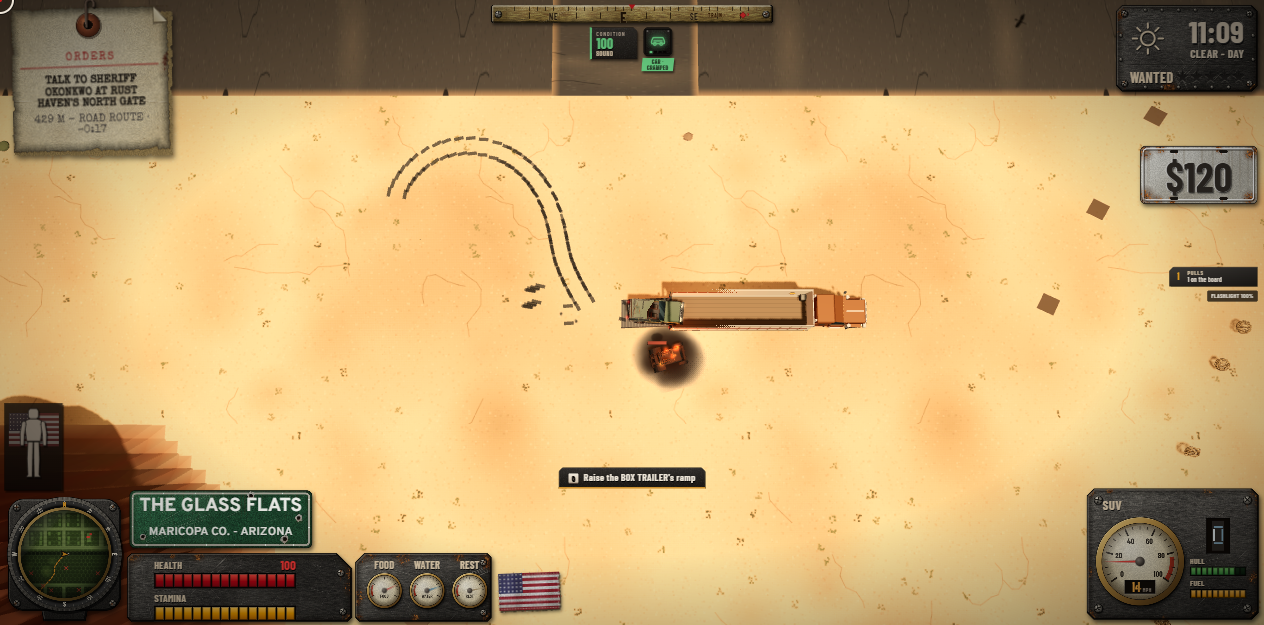
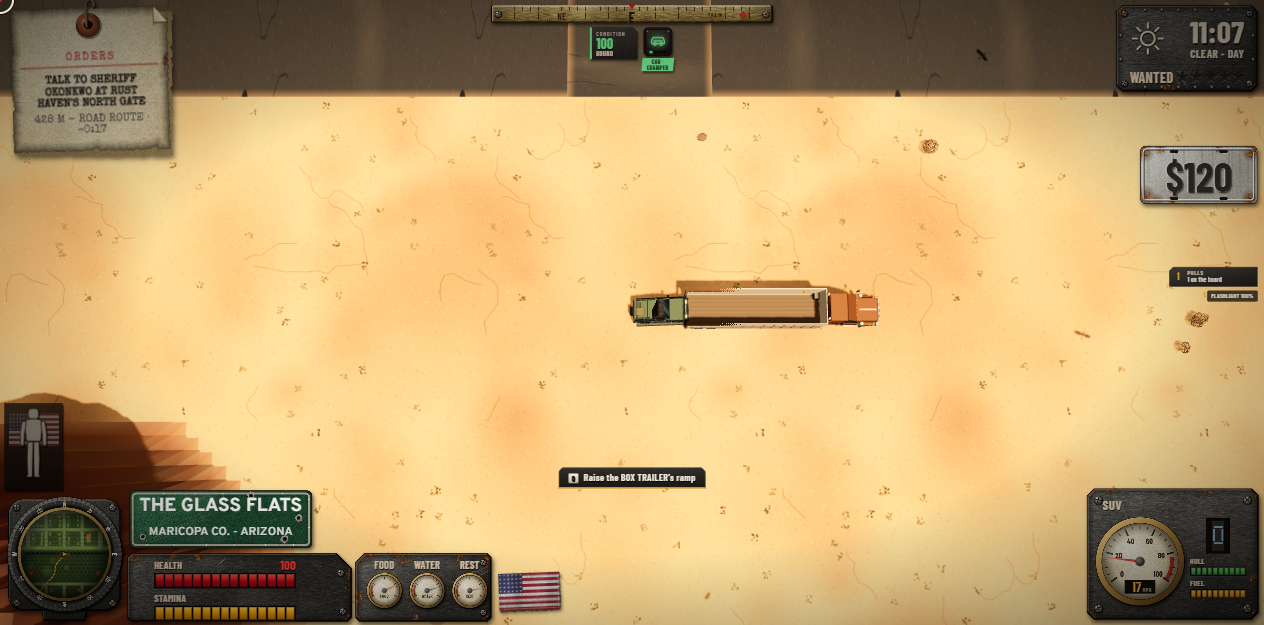
fix(web-veh-suv): critic pass - the roof load lies flat and the row's tall is the body's true top (2.24 m under the 2.25 m door; a check measures the built mesh), the grille sits between the lamps, the cargo quarters run to the tailgate; quiet re-shoot (the raiders round the yard rammed the first ta

diff --git a/web/src/systems/suv.js b/web/src/systems/suv.js
@@ -26,8 +26,8 @@ function suvBody(parts, s, paint, K) {
   // Nose: the block, the hood (tears off), a square grille between the lamps, the bumper with a skid plate under it.
   parts.push(slab(-hw, hw, 0.5, yHood - 0.06, G.zA - 0.05, L / 2 - 0.06, paint));
   parts.push(slab(-hw + 0.07, hw - 0.07, yHood - 0.06, yHood, G.zA + 0.02, L / 2 - 0.14, paint, PART.hood));
-  parts.push(slab(-hw + 0.32, hw - 0.32, 0.72, yHood - 0.12, L / 2 - 0.08, L / 2 - 0.01, GRILLE));
-  for (let k = 0; k < 4; k++) { const y = 0.78 + k * 0.1; parts.push(slab(-hw + 0.34, hw - 0.34, y, y + 0.025, L / 2 - 0.02, L / 2 + 0.005, CHROME)); }
+  parts.push(slab(-hw + 0.52, hw - 0.52, 0.72, yHood - 0.12, L / 2 - 0.08, L / 2 - 0.01, GRILLE)); // between the lamps (vehiclebodies lampAnchors: x +-(hw - 0.35))
+  for (let k = 0; k < 4; k++) { const y = 0.78 + k * 0.1; parts.push(slab(-hw + 0.54, hw - 0.54, y, y + 0.025, L / 2 - 0.02, L / 2 + 0.005, CHROME)); }
   parts.push(slab(-hw - 0.04, hw + 0.04, 0.48, 0.74, L / 2 - 0.08, L / 2 + 0.14, BUMPER, PART.bumperF));
   parts.push(slab(-0.55, 0.55, 0.36, 0.5, L / 2 - 0.4, L / 2 + 0.06, '#3a3836', PART.bumperF));
   // Square fender flares over the wheels and a rocker step down each side.
@@ -42,7 +42,7 @@ function suvBody(parts, s, paint, K) {
     const x0 = sd * (hw - 0.1), x1 = sd * hw;
     parts.push(slab(x0, x1, 0.5, G.yB, zB, G.zA, paint, sd > 0 ? PART.doorL : PART.doorR));
     parts.push(slab(x0, x1, 0.5, G.yB, zD, zB, paint, sd > 0 ? PART.doorL2 : PART.doorR2));
-    parts.push(slab(x0, x1, 0.5, G.yB, G.zC, zD, paint)); // the cargo quarter
+    parts.push(slab(x0, x1, 0.5, G.yB, -L / 2 + 0.02, zD, paint)); // the cargo quarter, back to the tailgate
     parts.push(slab(sd * (hw + 0.01), sd * (hw + 0.035), G.yB - 0.2, G.yB - 0.15, G.zA - 0.5, G.zA - 0.3, CHROME, sd > 0 ? PART.doorL : PART.doorR));
     parts.push(slab(sd * (hw + 0.01), sd * (hw + 0.035), G.yB - 0.2, G.yB - 0.15, zB - 0.5, zB - 0.3, CHROME, sd > 0 ? PART.doorL2 : PART.doorR2));
     parts.push(slab(sd * (hw + 0.02), sd * (hw + 0.24), G.yB + 0.06, G.yB + 0.28, G.zA - 0.12, G.zA + 0.02, '#1e1d1c', sd > 0 ? PART.doorL : PART.doorR)); // mirror
@@ -55,10 +55,10 @@ function suvBody(parts, s, paint, K) {
   greenhouse(parts, G, paint, paint, zB);
   for (const sd of [1, -1]) parts.push(beam([sd * (G.wB / 2 - 0.035), G.yB, zD], [sd * (G.wR / 2 - 0.035), G.yR + 0.02, zD], 0.07, paint, PART.body)); // the C-pillar
   // A roof rack: two rails, three crossbars, a jerry can and a rolled tarp lashed down.
-  for (const sd of [1, -1]) parts.push(slab(sd * (G.wR / 2 - 0.12), sd * (G.wR / 2 - 0.05), G.yR + 0.07, G.yR + 0.15, G.roofR + 0.15, G.roofF - 0.1, RACK));
-  for (let k = 0; k < 3; k++) { const z = G.roofR + 0.25 + k * ((G.roofF - G.roofR - 0.5) / 2); parts.push(slab(-G.wR / 2 + 0.05, G.wR / 2 - 0.05, G.yR + 0.15, G.yR + 0.19, z - 0.03, z + 0.03, RACK)); }
-  parts.push(slab(0.2, 0.55, G.yR + 0.19, G.yR + 0.52, G.roofR + 0.35, G.roofR + 0.6, '#4e5438'));
-  parts.push(slab(-0.5, 0.05, G.yR + 0.19, G.yR + 0.42, G.roofR + 0.3, G.roofR + 0.95, '#7b6a4a')); // the tarp
+  for (const sd of [1, -1]) parts.push(slab(sd * (G.wR / 2 - 0.12), sd * (G.wR / 2 - 0.05), G.yR + 0.07, G.yR + 0.12, G.roofR + 0.15, G.roofF - 0.1, RACK));
+  for (let k = 0; k < 3; k++) { const z = G.roofR + 0.25 + k * ((G.roofF - G.roofR - 0.5) / 2); parts.push(slab(-G.wR / 2 + 0.05, G.wR / 2 - 0.05, G.yR + 0.1, G.yR + 0.13, z - 0.03, z + 0.03, RACK)); }
+  parts.push(slab(0.15, 0.6, G.yR + 0.13, G.yR + 0.3, G.roofR + 0.3, G.roofR + 0.65, '#4e5438')); // a jerry can, on its side
+  parts.push(slab(-0.55, 0.05, G.yR + 0.13, G.yR + 0.3, G.roofR + 0.3, G.roofR + 0.95, '#7b6a4a')); // the tarp, rolled flat (the load stays under the row's tall: a box trailer's door)
   // The tail: the tailgate (its window is the greenhouse's rear glass), a spare on it, the bumper and the plate.
   parts.push(slab(-hw + 0.04, hw - 0.04, 0.5, G.yB, -L / 2 + 0.02, -L / 2 + 0.1, paint, PART.bumperR));
   parts.push(K.coloredBox(0.78, 0.78, 0.26, 0, G.yB - 0.4, -L / 2 - 0.12, TYRE, PART.bumperR));

diff --git a/web/src/agent/veh-suv-api.js b/web/src/agent/veh-suv-api.js
@@ -4,7 +4,7 @@
 import { VEHICLES } from '../systems/vehicles.js';
 import { TRAILERS, FREIGHT, fitsHold } from '../data/trailers.js';
 import { CHASSIS } from '../data/workshop.js';
-import { glassLayout } from '../systems/vehiclebodies.js';
+import { glassLayout, PART as PARTID } from '../systems/vehiclebodies.js';
 
 const r2 = (v) => Math.round(v * 100) / 100;
 
@@ -13,7 +13,7 @@ export async function vehSuvChecks(api, check, C) {
   const keysUp = () => { for (const k of ['KeyW', 'KeyS', 'KeyA', 'KeyD', 'KeyG']) I.down.delete(k); };
   const drop = (...vv) => { if (g.player.inVehicle) g.exitVehicle(true); for (const v of vv) if (v && g.vehicles.includes(v)) { v.carriedBy = null; vs().remove(v); } };
 
-  await check('suv: the SUV is a row and a real body - four doors, the glass to the tailgate, a roof rack, its wheels; a workshop chassis; it fits the LONGHAULER box hold and the freight\'s first box rig carries one', async () => {
+  await check('suv: the SUV is a row and a real body - four doors, the glass to the tailgate, a roof rack, its wheels; a workshop chassis; the built body is no taller than its row says; it fits the LONGHAULER box hold and the freight\'s first box rig carries one', async () => {
     const s = VEHICLES.suv;
     if (!s) return 'no VEHICLES.suv';
     const v = vs().spawn('suv', 0, -60, 0, '#5d6a52');
@@ -22,7 +22,8 @@ export async function vehSuvChecks(api, check, C) {
       const tris = v.mesh.geometry.attributes.position.count / 3, glass = glassLayout(s, 'suv');
       const fit = fitsHold(TRAILERS.box, s), freight = FREIGHT.rigs.boxes.some((r) => r.cargo?.includes('suv'));
       const doors = ['doorL', 'doorR', 'doorL2', 'doorR2'].every((p) => [...P].includes(PARTID[p]));
-      return tris > 400 && doors && glass && CHASSIS.suv && fit === null && freight ? true : JSON.stringify({ tris, doors, glass: !!glass, chassis: !!CHASSIS.suv, fit, freight });
+      v.mesh.geometry.computeBoundingBox(); const top = v.mesh.geometry.boundingBox.max.y, wide = v.mesh.geometry.boundingBox.max.x * 2; // the built body: no taller than its row says (a box trailer's door)
+      return tris > 400 && doors && glass && CHASSIS.suv && fit === null && freight && top <= s.tall + 0.005 && top > s.tall - 0.15 ? true : JSON.stringify({ tris, doors, glass: !!glass, chassis: !!CHASSIS.suv, fit, freight, top: r2(top), tall: s.tall, wide: r2(wide) });
     } finally { drop(v); }
   });
 
@@ -48,5 +49,3 @@ export async function vehSuvChecks(api, check, C) {
     } finally { keysUp(); drop(suv, ...(r.T?.cargo ?? []), r.K, r.T); for (const c of [...g.chars]) if (c.name === 'Hauler (selftest)' && !g.vehicles.includes(c.inVehicle)) g.removeChar?.(c); }
   });
 }
-// The body's part ids (vehiclebodies PART) by name, without importing the whole body module's internals here.
-import { PART as PARTID } from '../systems/vehiclebodies.js';

diff --git a/web/src/data/suv.js b/web/src/data/suv.js
@@ -3,8 +3,8 @@
 // Stats sit between the pickup and the van: heavier and taller than a sedan, softer off-road than the patrol truck.
 const S4 = [{ id: 'driver', side: 'left', row: 0 }, { id: 'shotgun', side: 'right', row: 0 }, { id: 'backL', side: 'left', row: 1 }, { id: 'backR', side: 'right', row: 1 }];
 export const SUV_ROW = {
-  name: 'SUV', len: 4.9, wid: 2.0, tall: 1.98, maxSpeed: 37, reverse: 13, accel: 17, turn: 2.05, grip: 6.2, mass: 2.0,
-  hp: 240, armor: 0.3, fuelCap: 78, seats: S4,
+  name: 'SUV', len: 4.9, wid: 2.0, tall: 2.24, maxSpeed: 37, reverse: 13, accel: 17, turn: 2.05, grip: 6.2, mass: 2.0,
+  hp: 240, armor: 0.3, fuelCap: 78, seats: S4, // tall: the top of the roof load, the body's true top (a check measures the mesh)
 };
 // The glass (vehiclebodies GREENHOUSE shape): the windshield's foot zA, the roof from roofF back to roofR, the tailgate
 // glass down to zC; belt yB, roof yR; wB/wR the width at the belt and the roof.
